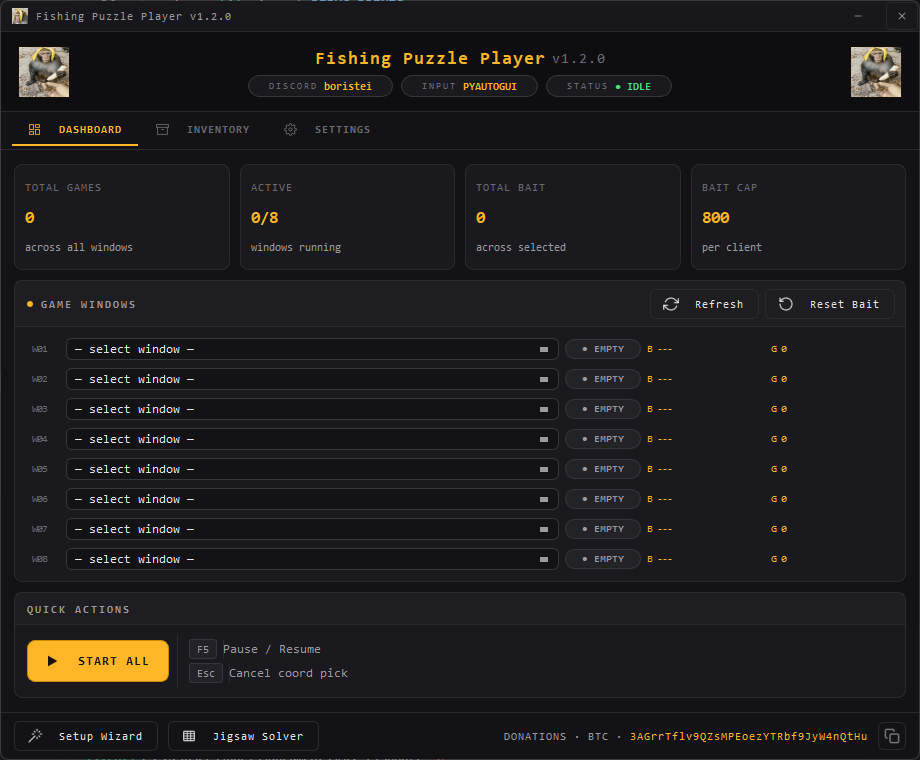
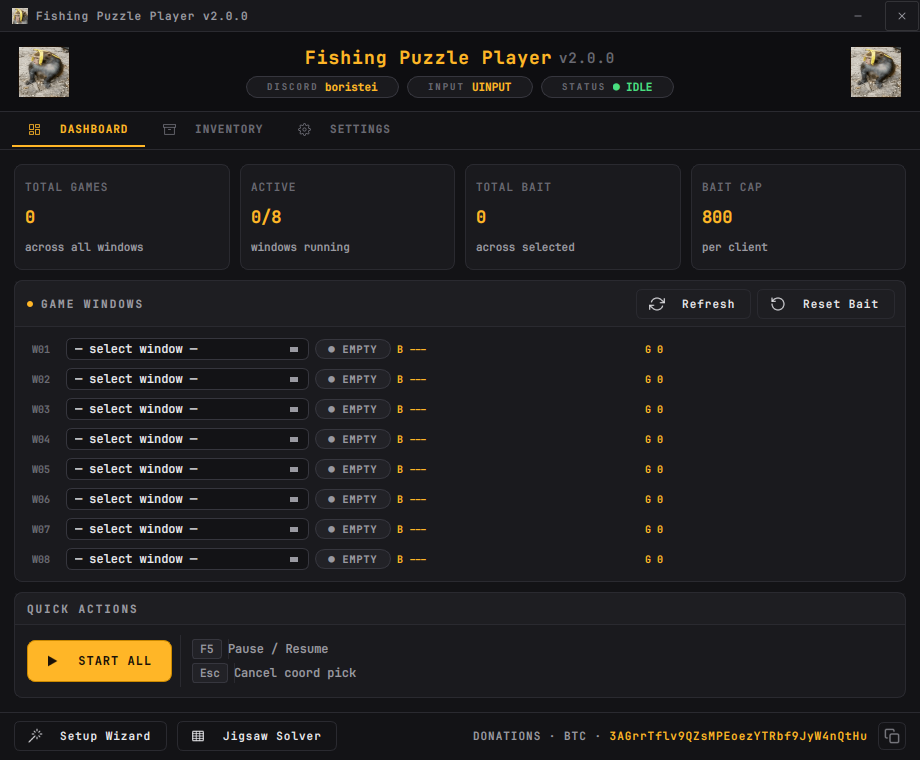
Condense README and refresh GUI screenshots for v2.0.0
Claude-Session: https://claude.ai/code/session_01SAjLH2v1bdzFUivTeCXdSM

diff --git a/README.md b/README.md
@@ -1,201 +1,66 @@
 # MT2 Fishing Bot — v2.0.0
-**THIS PROJECT WAS BUILT FOR EDUCATIONAL AND LEARNING PURPOSES ONLY!**
 
-Free fishing minigame bot for Metin2. No subscriptions, no licenses.
+Free fishing-minigame bot for Metin2. No subscriptions, no licenses.
+**Built for educational and learning purposes only.**
 
-**Author:** boristei | **Discord:** boristei
+[Video tutorial](https://youtu.be/M0THxnio894) · [Download](releases/windows/) · Discord: `boristei`
 
----
+![GUI](docs/gui_demo.png)
 
-## Preview
+<details>
+<summary>More screenshots</summary>
 
-![GUI Demo](docs/gui_demo.png)
+![Inventory](docs/gui_inventory.png)
+![Settings](docs/gui_settings.png)
 
----
-
-## Tutorial/Demo
-
-**Watch the full tutorial:** [YouTube Video](https://youtu.be/M0THxnio894)
-
----
-
-## Download
-
-**Latest Version:** 2.0.0 (2026)
-
----
+</details>
 
 ## Features
 
-- **Multi-window support** — Up to 8 simultaneous Metin2 clients
-- **Visual processing only** — Completely undetectable
-- **Dual fishing modes** — Both new minigame and classic fishing supported
-- **Automatic inventory management** — Multi-page support (up to 8 pages) with auto-switching when full
-- **Intelligent fish handling** — Keep/open/drop per fish type with automatic position detection
-- **Integrated jigsaw solver** — Automatically solves the fishing jigsaw minigame
-- **Quick skip modes** — Horse (CTRL+G) or armor slot equip/unequip
-- **Configurable bait system** — Up to 4 bait hotkeys (1-4, F1-F4), 200 bait each
-- **Advanced timing control** — Customizable click/key input delays for compatibility with different servers
-- **GUI customization** — Accent color picker with RGB wave animation effects
-- **F5 pause/resume** — Pause/resume all bots instantly
+- Up to 8 Metin2 clients at once, new minigame and classic fishing
+- Reads the screen only; it never touches game memory
+- Auto fish handling per fish type (keep / open / drop), across up to 8 inventory pages
+- Built-in jigsaw solver for the fishing puzzle
+- Up to 4 bait hotkeys, quick skip (horse or armor), adjustable timings, human-like clicking
+- Adapts to re-skinned minigames, saves and loads profiles
+- **F5** pauses and resumes every bot
+- Runs on Windows, and on Linux with the game under Wine ([docs/LINUX.md](docs/LINUX.md))
 
----
+## Quick start
 
-## How to Use
+1. Run the bot **as administrator** (Windows) and pick your Metin2 windows. The **Setup Wizard** walks you through the rest.
+2. In the **Inventory** tab, set the position of inventory pages 1–4 (5–8 are optional) so the bot can switch pages when one fills up.
+3. Optional: turn on automatic fish handling and choose what to do with each fish. The inventory must be open.
+4. Put bait in the selected hotkey slots and press **Start All**.
 
-⚠ **Execute the bot as administrator!** ⚠
-
-### Initial Setup
-
-1. Execute the bot as administrator
-2. Select target Metin2 windows (up to 8 clients)
-3. **Configure inventory page tabs** (mandatory for page switching)
-   - Click "Page 1" button and click the inventory page 1 tab in your game
-   - Repeat for Pages 2, 3, and 4 (Pages 5-8 are optional)
-   - This allows the bot to automatically switch pages when your inventory fills up
-4. Configure auto fish handling (if enabled)
-   - Click "Select Fishes & Items" to set keep/open/drop actions per fish
-   - Set drop button and confirm button coordinates if using drop/sell/destroy
-5. Enable/disable features and select bait hotkeys
-   - ⚠ Quick skip (Horse mode) requires a horse!
-   - ⚠ Quick skip (Armor mode) requires armor equipped and coordinates set!
-   - ⚠ Automatic fish handling requires inventory to be open!
-6. Place bait in each selected hotkey slot
-7. Start the bot!
-8. Press **F5** to pause/resume all bots
-
-(Optional) Enable the jigsaw solver
-   - Toggle "Jigsaw Solver" in the GUI to automate the fishing jigsaw minigame
-(Optional) Customize timing settings for your server
-   - Click "⏱ Timing Settings..." to adjust click/key input delays
-   - Default timings work for most servers; only adjust if needed
-
-
----
-
-## Settings
-
-### Core Fishing
-- **Fishing Mode**
-  - **Minigame mode** (default) — Detects the cyan fishing window and blue fish dot, clicks to catch
-  - **Classic fishing mode** — Multi-scale template matching for single-image fish detection with fixed delay before reeling
-    - Configurable delay (in seconds) after fish detection before pressing the reel-in key
-
-### Inventory & Drop Management
-- **Automatic Fish Handling** — Configure per-fish actions
-  - **Keep** — Item stays in inventory (ignored in future catches)
-  - **Open** — Double-click the item (for fish/sealed items)
-  - **Drop/Sell** — Drag to drop button, then click confirm button
-  - ⚠ Requires inventory window to be open
-  - Automatically switches to next inventory page when current page fills
-- **Inventory Page Tabs** — Configure positions for up to 8 inventory pages
-  - Pages 1-4 are **mandatory** (bot won't start without them)
-  - Pages 5-8 are **optional** (only set if your game has extra pages)
-  - Bot auto-switches pages when all slots on the current page are occupied
-
-### Jigsaw Solver
-- **Jigsaw Solver** — Automatically detects and solves the fishing jigsaw minigame
-  - Toggle on/off from the main GUI
-  - **Dry-run mode** — Simulates clicks without performing them (for testing)
-  - **Crate priority** — Choose whether to fill normal or empty crates first
-  - **Detection threshold** — Confidence level for piece recognition (default: 0.8)
-  - **Action delay** — Delay between jigsaw clicks in seconds (default: 0.15)
-  - Debug screenshots can be saved for troubleshooting
-
-### Bait & Casting
-- **Bait Management** — Configurable hotkeys (1-4 or F1-F4)
-  - Each key = 200 bait (select 1-4 keys for 200-800 total bait)
-  - Bait counter auto-decrements after each cast
-  - Tier advances automatically when previous tier depletes
-- **Quick Skip** — Auto-skip between games
-  - **Horse mode** — Double press CTRL+G (dismount → remount)
-  - **Armor mode** — Right-click configured armor slot (equip ↔ unequip)
-
-### Input Timing
-- **Timing Settings** ⏱
-  - Fine-tune all click/key input delays for compatibility with different servers
-  - Categories:
-    - **Fish Clicking** — Cursor settle, mouse button hold, post-click settle
-    - **Click Rhythm** — Min/max delay between attempts (human-like mode)
-    - **Key Presses** — Key hold duration, pre-key window settle
-    - **Bait & Cast** — Delay between bait and cast key
-    - **Item Handling** — Waits after catches, opens, drops (game-response tunable)
-    - **Quick Skip** — Gaps between armor equip/unequip operations
-  - All values in milliseconds; defaults optimized for most servers
-  - Click "⏱ Timing Settings..." to open the configuration window
-
-### User Interface
-- **Human-like Clicking** — Add randomized delays and position offsets to click operations
-- **Accent Color** — Choose from multiple colors for the GUI theme
-  - **RGB Wave Effect** (optional) — Animated rainbow color cycling
-- **Display Options**
-  - Show status log — Real-time activity messages (useful for debugging)
-  - Debug mode (show ignored positions, fish detector overlay, inventory overlay, jigsaw overlay)
-
----
+Quick skip needs a horse (Horse mode) or an equipped armor with its slot set (Armor mode).
 
 ## Troubleshooting
 
-**Q: Start button not showing?**
-- Set Windows display scale to 100% (Settings → Display → Scale)
-- The bot DPI-scales automatically, but 100% scale is preferred
+| Problem | Fix |
+|---|---|
+| Start button not showing | Set Windows display scale to 100% |
+| Fish are not opened or dropped | Keep the inventory open, set the drop and confirm positions, then raise the item timings in **Timing Settings** (useful on high ping) |
+| Jigsaw pieces not detected | Lower the detection threshold and keep the whole grid visible |
+| Pages stop switching | Re-set the Page 1–4 positions after changing resolution |
 
-**Q: Bot is not opening fishes/dropping items automatically?**
-- Ensure inventory is open and visible
-- Click the 📋 button to select which fish to keep/open/drop
-- For drop actions, set drop button and confirm button coordinates
-- Check that the timing settings are appropriate for your server (⏱ Timing Settings)
+The game window can sit in the background but must not be minimized.
 
-**Q: Jigsaw solver not detecting pieces?**
-- Lower the detection threshold in jigsaw settings
-- Ensure the jigsaw grid is fully visible on screen
+## Version history
 
-**Q: Bot stops switching inventory pages?**
-- Confirm all 4 mandatory page tabs are calibrated (Page 1–4 buttons)
-- Ensure page tab coordinates match your current screen resolution
+- **2.0.0** — Linux port (X11/Wine), OS abstraction layer, adaptive detection, profiles
+- **1.2.0** — Jigsaw solver, new GUI
+- **1.1.x** — Multi-page inventory, timing settings, debug overlays
+- **1.0.x** — Classic fishing, fish dropping, fixes
 
----
+## Development
 
-## Version History
+Test it without the game using the built-in simulator: `python tools/minigame_sim` ([docs/SIMULATOR.md](docs/SIMULATOR.md)). Tests: `python tools/run_tests.py`.
 
-- **v2.0.0 (Latest)** — Linux port (X11/Wine) with an OS abstraction layer
-- **v1.2.0** — Integrated jigsaw puzzle solver, jigsaw debug window and new GUI
-- **v1.1.1** — New debug windows: inventory detection overlay, ignored positions grid
-- **v1.1.0** — Multi-page inventory management, configurable timing settings, improved auto-drop stability
-- **v1.0.5** — Redesigned GUI with better layout
-- **v1.0.4** — Bug fixes for goldfish/zander detection, improved drop reliability
-- **v1.0.3** — Fish drop mechanism implementation
-- **v1.0.2** — Stability improvements
-- **v1.0.1** — Classic fishing mode implementation
-- **v1.0.0** — Initial release
+**Planned:** skip the minigame based on chat messages.
 
----
+## Donations
 
-## Known Limitations
-
-- **Windows** — Requires Windows 7 or newer. **Linux** (game under Wine) is in progress: see [docs/LINUX.md](docs/LINUX.md)
-- **Administrator required** — Must run as admin for mouse/keyboard input injection
-- **Game settings** — Display scale should be 100% for best detection (auto-scales but may need adjustment)
-- **Inventory mode** — Auto fish handling works best when inventory is mostly empty at startup
-- **Network latency** — If your server has high ping, increase item handling timing delays
-- **Window positioning** — Game window must remain visible (can be in background but not minimized)
-
----
-
-## Testing without the game
-
-`python tools/minigame_sim` opens a simulated game window (fishing minigame in several looks, inventory, jigsaw event) that the bot can be pointed at, and `python tools/minigame_sim/bench.py` plays every look headless. See [docs/SIMULATOR.md](docs/SIMULATOR.md).
-
-## Planned Updates
-
-- [ ] Fish skipping based on chat messages (skip minigame when specific text appears)
-
----
-
-## Donations :|
-
-**BTC:** `3AGrrTf1v9QZsMPEoezYTRbf9JyW4nQtHu`
-
----
+BTC: `3AGrrTf1v9QZsMPEoezYTRbf9JyW4nQtHu`
 
 *For personal use only. Use at your own risk.*
